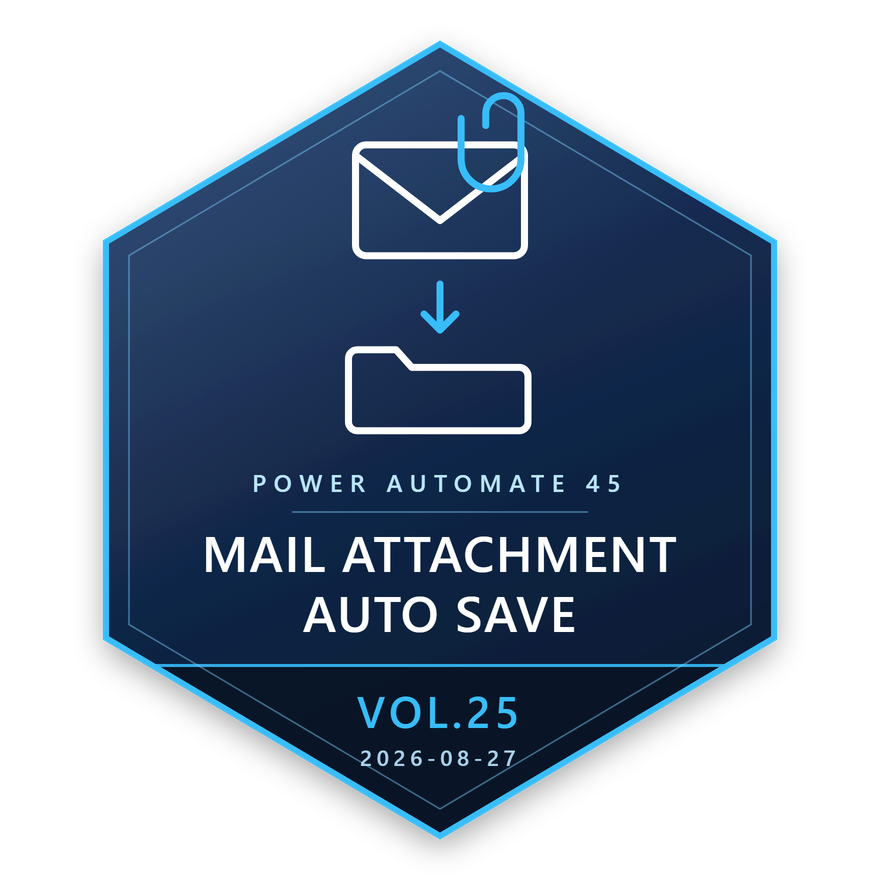
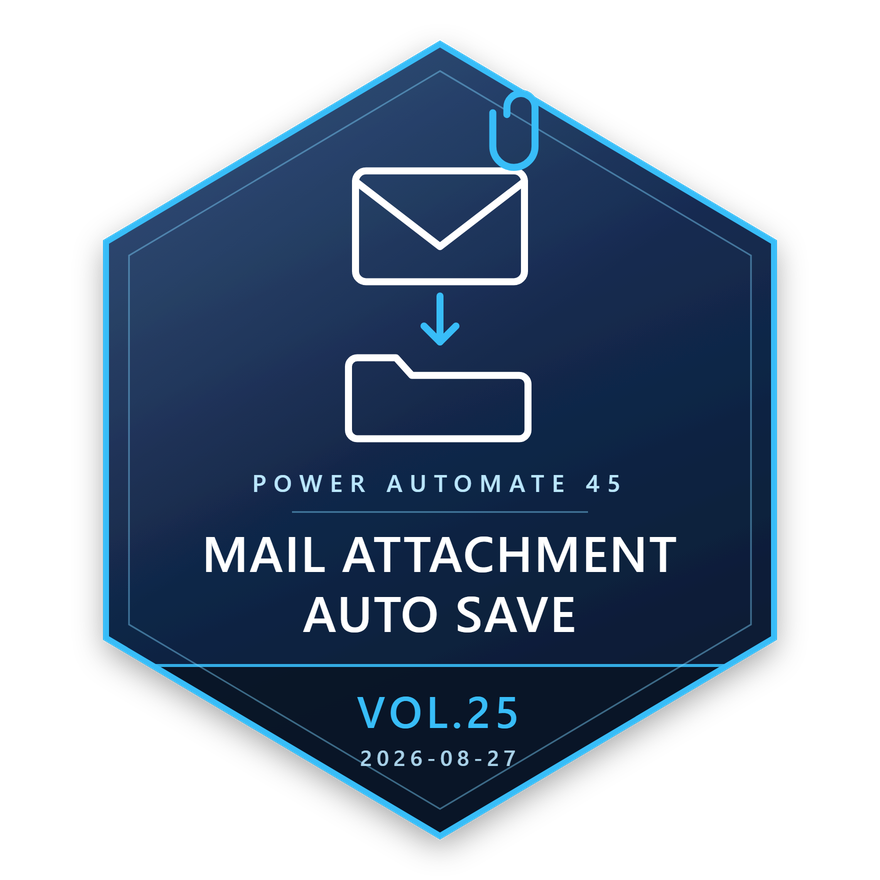
第25回バッジ：クリップが封筒を横切っていたので上ぶちに留める形へ修正

Changed region(s): [[0.3989, 0.092, 0.6136, 0.4295], [0.3989, 0.4602, 0.6136, 0.5216]]

diff --git a/scripts/make-badge-flat.py b/scripts/make-badge-flat.py
@@ -43,21 +43,21 @@ def icon_mailsave(c):
     """封筒からファイルが下のフォルダへ落ちる＝メール添付の自動保存。"""
     a, w = c["accent"], "#FFFFFF"
     return f'''
-  <g transform="translate(440,210) scale(0.88)" fill="none" stroke="{w}" stroke-width="8"
+  <g transform="translate(440,236) scale(0.88)" fill="none" stroke="{w}" stroke-width="8"
      stroke-linecap="round" stroke-linejoin="round">
     <!-- 封筒 -->
     <rect x="-96" y="-74" width="192" height="126" rx="12"/>
     <path d="M-96 -62 L0 12 L96 -62"/>
-    <!-- クリップ（添付） -->
-    <path d="M52 -96 v-14 a20 20 0 0 1 40 0 v52 a34 34 0 0 1 -68 0 v-46"
+    <!-- クリップ（添付）＝封筒の上ぶちに留める。face を横切らない -->
+    <path d="M76 -138 v-8 a16 16 0 0 1 32 0 v44 a24 24 0 0 1 -48 0 v-38"
           stroke="{a}" stroke-width="8"/>
   </g>
-  <g transform="translate(440,318)" fill="none" stroke="{a}" stroke-width="7"
+  <g transform="translate(440,330)" fill="none" stroke="{a}" stroke-width="7"
      stroke-linecap="round" stroke-linejoin="round">
     <path d="M0 -34 v46"/>
     <path d="M-16 -4 L0 12 L16 -4"/>
   </g>
-  <g transform="translate(440,392) scale(0.88)" fill="none" stroke="{w}" stroke-width="8"
+  <g transform="translate(440,400) scale(0.88)" fill="none" stroke="{w}" stroke-width="8"
      stroke-linecap="round" stroke-linejoin="round">
     <path d="M-104 34 v-72 a10 10 0 0 1 10 -10 h44 l18 20 h122 a10 10 0 0 1 10 10 v52
              a10 10 0 0 1 -10 10 h-184 a10 10 0 0 1 -10 -10 z"/>
